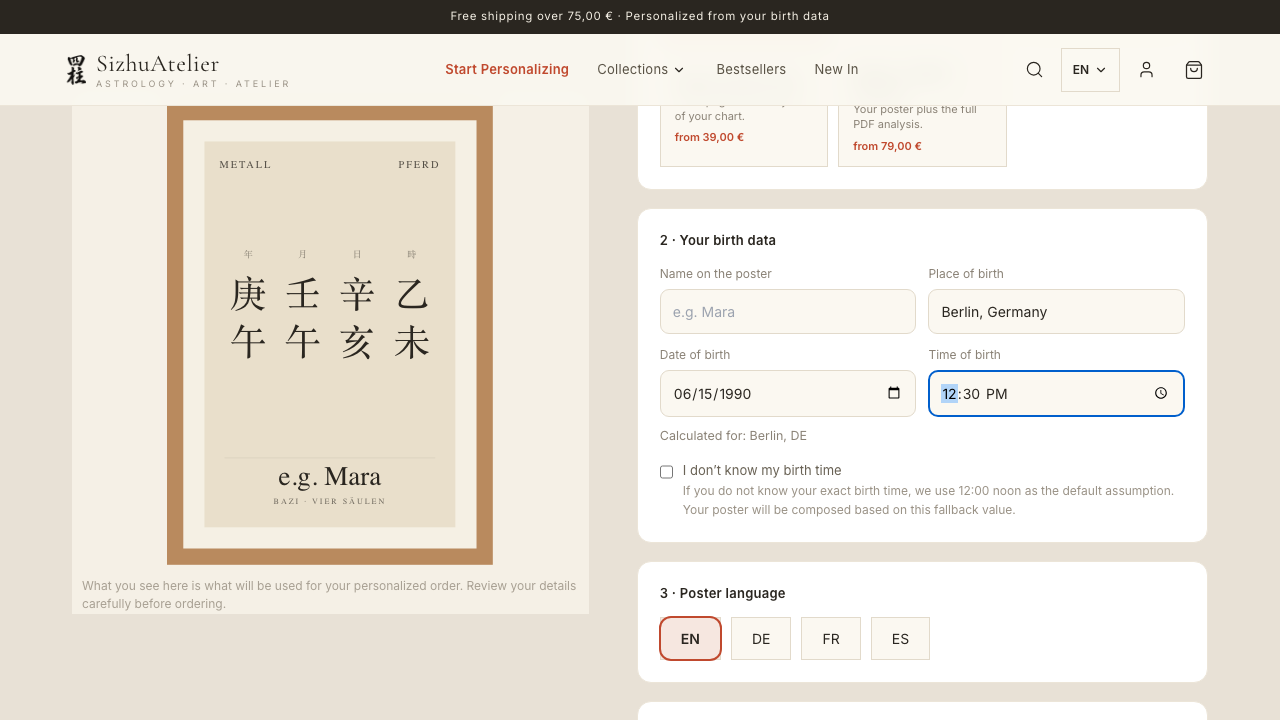
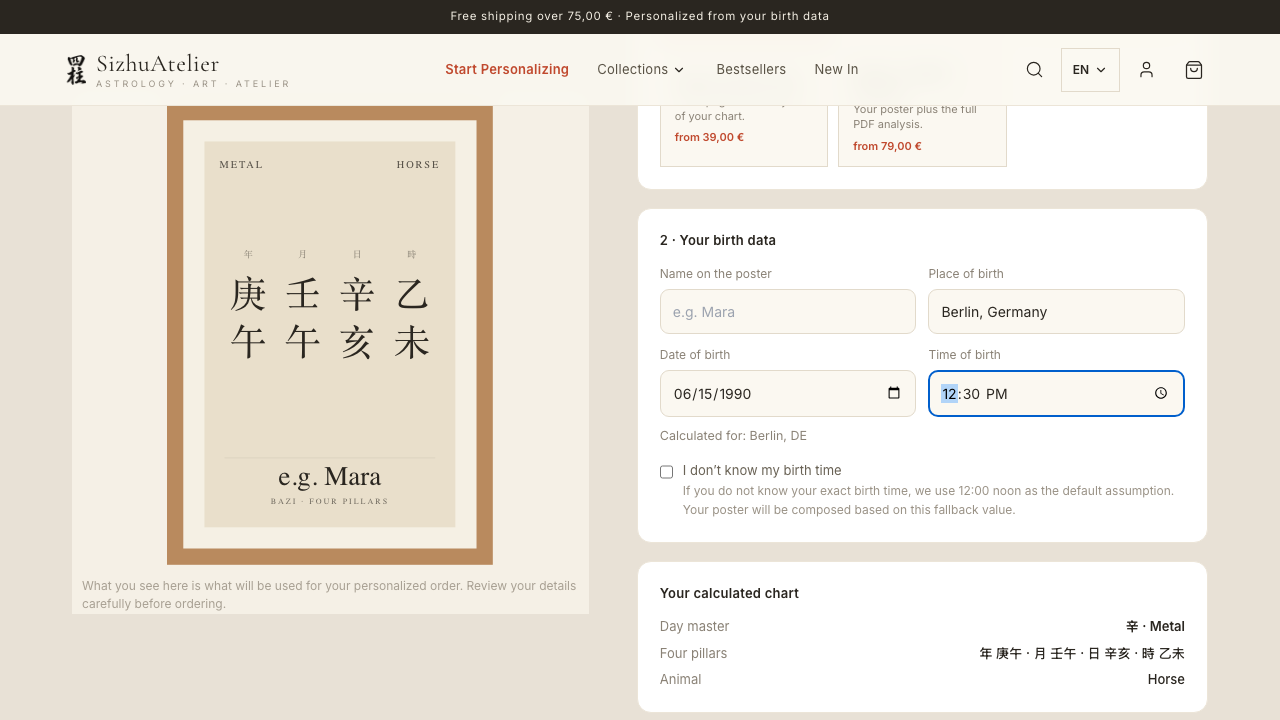
feat(personalize): Tagesmeister-Review, Partner-Review, Poster-Sprache — Operator-Batch #3
- Poster-Sprache-Fund behoben: FuFirE liefert Element/Tier kanonisch DEUTSCH,
  Vorschau+Druck zeigten METALL/PFERD auch bei englischem Poster; Subtitle
  war hardcoded. NEU: geteiltes Modul src/designs/posterLocale.mjs (Elemente,
  12 Tiere, Subtitles single/pair, Relations-Label) — EINE Quelle für
  Browser-Vorschau UND Druck-PDF; unbekannte Werte werden unverändert
  durchgereicht (nie geraten). RELATION_TEXT in fulfillment.js dedupliziert;
  Designs nehmen data.subtitle (Fallback = bisheriger Text); TÜV-Fixture um
  Subtitle-Injektion erweitert.
- Tagesmeister + Säulen als Review: neuer chart-review-Block (erst bei
  fertigem exakten Chart): Day master (Tag-Stamm + Element), Säulen-Zeile
  (年 庚午 · 月 壬午 · 日 辛亥 · 時 乙未), Tierzeichen — i18n EN/DE/FR/ES.
- Partner-Review (Paar): beide Partner als Karten mit den korrekten Daten
  (Name, Datum, Zeit inkl. Noon-Fallback, aufgelöster Ort) + je Tagesmeister
  (dayMasterA/B aus /api/match) + Relations-Label; Summary um
  Partner-Datenzeile ergänzt; poster-lang-picker testid.
- Tests fortgeschrieben: personalize-exact-chart (EN=Horse/Metal, Review,
  DE-Umschaltung), personalize-exact.spec (HORSE/METAL/FOUR PILLARS +
  Review-Assertions 辛/庚午).

Beweise: node 72/72 · jsdom 606/606 · Playwright 6/6 (2x, ein einmaliger
Chromium-Screenshot-Protokollfehler als Flake verifiziert) · Screenshot mit
Day-master-Review + englischem Poster im Ledger

diff --git a/src/pages/Personalize.tsx b/src/pages/Personalize.tsx
@@ -7,6 +7,7 @@ import { useBaziChart, usePairChart } from '../hooks/useBaziChart'
 import { usePlaceResolution, type PlaceStatus } from '../hooks/usePlaceResolution'
 import PosterSvg from '../components/shop/PosterSvg'
 import { DESIGNS } from '../designs/registry.mjs'
+import { localizeElement, localizeAnimal, posterSubtitle, localizeRelation } from '../designs/posterLocale.mjs'
 import { useShopStore, useMoney } from '../store/ShopStore'
 import { useT, LANGS } from '../i18n/I18nProvider'
 import { type Lang } from '../i18n/translations'
@@ -118,10 +119,15 @@ export default function Personalize() {
     { label: '日', stem: '—', branch: '—' },
     { label: '時', stem: '—', branch: '—' },
   ]
-  const livePoster: PosterData = {
+  // Poster-Texte in der GEWÄHLTEN POSTER-SPRACHE (Operator 2026-07-13):
+  // FuFirE liefert Element/Tier kanonisch deutsch — die geteilte
+  // posterLocale-Tabelle übersetzt für Vorschau UND Druck identisch.
+  const livePoster: PosterData & { subtitle: string } = {
     frame: frameHex, bg: bgHex, name: a.name || t('configurator.namePh'),
-    element: chart?.element ?? '', animal: chart?.animal ?? '',
+    element: localizeElement(chart?.element ?? '', posterLang),
+    animal: localizeAnimal(chart?.animal ?? '', posterLang),
     pillars: chart?.pillars ?? EMPTY_PILLARS,
+    subtitle: posterSubtitle('single', posterLang),
   }
   const designKind = def.couple ? 'pair' : 'single'
   const activeDesigns = DESIGNS.filter((d) => d.active && d.kind === designKind)
@@ -129,15 +135,20 @@ export default function Personalize() {
     if (!activeDesigns.some((d) => d.id === designId) && activeDesigns[0]) setDesignId(activeDesigns[0].id)
     // eslint-disable-next-line react-hooks/exhaustive-deps
   }, [designKind])
-  const relationLabel = pair?.relation.wuxingRelation
-    ? t(`personalize.relation.${pair.relation.wuxingRelation}`, { a: pair.relation.elementA ?? '', b: pair.relation.elementB ?? '' })
-    : ''
+  // Relations-Label in der POSTER-Sprache (nicht UI-Sprache) — geteilte
+  // Quelle mit dem Druck-PDF (posterLocale.localizeRelation).
+  const relationLabel = pair?.relation ? localizeRelation(pair.relation, posterLang) : ''
+  const locChart = (c: { pillars: Pillar[]; animal: string; element: string } | undefined) =>
+    c
+      ? { ...c, element: localizeElement(c.element, posterLang), animal: localizeAnimal(c.animal, posterLang) }
+      : { pillars: EMPTY_PILLARS, animal: '', element: '' }
   const livePairPoster = {
     frame: frameHex, bg: bgHex,
     nameA: a.name || t('configurator.namePh'), nameB: b.name || t('configurator.namePh'),
-    chartA: pair?.a ?? { pillars: EMPTY_PILLARS, animal: '', element: '' },
-    chartB: pair?.b ?? { pillars: EMPTY_PILLARS, animal: '', element: '' },
+    chartA: locChart(pair?.a),
+    chartB: locChart(pair?.b),
     relationLabel,
+    subtitle: posterSubtitle('pair', posterLang),
   }
   const previewData = (def.couple ? livePairPoster : livePoster) as PosterData
 
@@ -331,10 +342,52 @@ export default function Personalize() {
             )}
           </div>
 
+          {/* Chart-Review (Operator 2026-07-13): Tagesmeister + Säulen als
+              lesbare Zusammenfassung; beim Paar-Poster BEIDE Partner mit den
+              korrekten eingegebenen Daten. Erscheint erst, wenn das exakte
+              Chart fertig berechnet ist — nie Platzhalterwerte. */}
+          {def.poster && !def.couple && chartStatus === 'ready' && chart && (
+            <div data-testid="chart-review" style={cardStyle}>
+              <div style={headingStyle}>{t('personalize.review.heading')}</div>
+              <dl style={{ margin: 0, display: 'grid', gridTemplateColumns: 'auto 1fr', rowGap: 7, columnGap: 16, fontSize: 13 }}>
+                <SumRow label={t('personalize.review.dayMaster')} value={`${chart.pillars[2]?.stem ?? '—'} · ${localizeElement(chart.element, lang)}`} strong />
+                <SumRow label={t('personalize.review.pillars')} value={chart.pillars.map((pl) => `${pl.label} ${pl.stem}${pl.branch}`).join(' · ')} />
+                <SumRow label={t('personalize.review.animal')} value={localizeAnimal(chart.animal, lang)} />
+              </dl>
+            </div>
+          )}
+          {def.couple && pairStatus === 'ready' && pair && (
+            <div data-testid="chart-review" style={cardStyle}>
+              <div style={headingStyle}>{t('personalize.review.heading')}</div>
+              <div className="grid grid-cols-1 gap-4 sm:grid-cols-2">
+                {[
+                  { key: 'a', person: a, bt: btA, place: resolvedPlace, chart: pair.a, dm: pair.relation.dayMasterA },
+                  { key: 'b', person: b, bt: btB, place: placeB.place, chart: pair.b, dm: pair.relation.dayMasterB },
+                ].map(({ key, person, bt, place, chart: pc, dm }) => (
+                  <div key={key} data-testid={`partner-review-${key}`} style={{ border: `1px solid ${C.border}`, background: C.surfaceWarm, padding: 14 }}>
+                    <div style={{ fontFamily: FONT_SERIF, fontSize: 17, color: C.ink, marginBottom: 8 }}>{person.name || '—'}</div>
+                    <dl style={{ margin: 0, display: 'grid', gridTemplateColumns: 'auto 1fr', rowGap: 5, columnGap: 12, fontSize: 12.5 }}>
+                      <SumRow label={t('configurator.date')} value={person.date || '—'} />
+                      <SumRow label={t('configurator.time')} value={unknownTime ? t('personalize.timeUnknown') : bt.timeDisplay || '—'} />
+                      <SumRow label={t('configurator.place')} value={place ? `${place.resolvedName}, ${place.countryCode}` : person.place || '—'} />
+                      <SumRow label={t('personalize.review.dayMaster')} value={`${dm ?? pc.pillars[2]?.stem ?? '—'} · ${localizeElement(pc.element, lang)}`} strong />
+                      <SumRow label={t('personalize.review.pillars')} value={pc.pillars.map((pl) => `${pl.label} ${pl.stem}${pl.branch}`).join(' · ')} />
+                    </dl>
+                  </div>
+                ))}
+              </div>
+              {relationLabel && (
+                <div data-testid="pair-relation-review" style={{ marginTop: 12, fontSize: 13, color: C.accent, fontWeight: 600 }}>
+                  {localizeRelation(pair.relation, lang)}
+                </div>
+              )}
+            </div>
+          )}
+
           {/* Step 3 — poster language */}
           <div style={cardStyle}>
             <div style={headingStyle}>{t('personalize.langHeading')}</div>
-            <div style={{ display: 'flex', gap: 10 }}>
+            <div data-testid="poster-lang-picker" style={{ display: 'flex', gap: 10 }}>
               {LANGS.map((l) => {
                 const sel = l === posterLang
                 return (
@@ -424,6 +477,7 @@ export default function Personalize() {
               <SumRow label={t('personalize.sumType')} value={t(`personalize.types.${typeId}.name`)} />
               <SumRow label={t('configurator.name')} value={a.name || '—'} />
               {def.couple && <SumRow label={t('personalize.partnerName')} value={b.name || '—'} />}
+              {def.couple && <SumRow label={t('personalize.partnerData')} value={`${b.date || '—'} · ${unknownTime ? t('personalize.timeUnknown') : b.time || '—'} · ${b.place || '—'}`} />}
               <SumRow label={t('configurator.date')} value={a.date || '—'} />
               <SumRow label={t('configurator.time')} value={unknownTime ? t('personalize.timeUnknown') : a.time || '—'} />
               <SumRow label={t('configurator.place')} value={a.place || '—'} />

diff --git a/src/i18n/translations.ts b/src/i18n/translations.ts
@@ -78,7 +78,7 @@ export const translations: Record<Lang, Record<string, any>> = {
       langHeading: '3 · Poster language',
       designHeading: '4 · Design', frameWord: 'Frame colour', paletteWord: 'Background palette', posterBgHeading: 'Poster background', sizeHeading: 'Size',
       pdfAddon: 'Add the digital PDF analysis', pdfNote: 'A 10–15 page personal analysis of your chart, delivered as a download.', pdfBadge: 'Digital PDF',
-      summaryHeading: '5 · Review your personalization', sumType: 'Product', partnerName: 'Partner', timeUnknown: 'Unknown — 12:00 PM default', sumLang: 'Language', sumDesign: 'Design', sumSize: 'Size', sumPrice: 'Price',
+      summaryHeading: '5 · Review your personalization', sumType: 'Product', partnerName: 'Partner', partnerData: 'Partner details', review: { heading: 'Your calculated chart', dayMaster: 'Day master', pillars: 'Four pillars', animal: 'Animal' }, timeUnknown: 'Unknown — 12:00 PM default', sumLang: 'Language', sumDesign: 'Design', sumSize: 'Size', sumPrice: 'Price',
       previewCertainty: 'What you see here is what will be used for your personalized order. Review your details carefully before ordering.',
       trustData: 'Created from your birth data', trustLogic: 'Composed into a symbolic artwork', trustPreview: 'Preview before ordering', trustPremium: 'Premium print quality',
       errFix: 'Please complete the highlighted birth-data fields before adding to cart.',
@@ -440,7 +440,7 @@ export const translations: Record<Lang, Record<string, any>> = {
       langHeading: '3 · Poster-Sprache',
       designHeading: '4 · Design', frameWord: 'Rahmenfarbe', paletteWord: 'Hintergrund-Palette', posterBgHeading: 'Poster-Hintergrund', sizeHeading: 'Format',
       pdfAddon: 'Digitale PDF-Analyse hinzufügen', pdfNote: 'Eine 10–15-seitige persönliche Auswertung deines Charts als Download.', pdfBadge: 'Digitale PDF',
-      summaryHeading: '5 · Personalisierung prüfen', sumType: 'Produkt', partnerName: 'Partner', timeUnknown: 'Unbekannt — Standard 12:00 Uhr', sumLang: 'Sprache', sumDesign: 'Design', sumSize: 'Format', sumPrice: 'Preis',
+      summaryHeading: '5 · Personalisierung prüfen', sumType: 'Produkt', partnerName: 'Partner', partnerData: 'Partner-Daten', review: { heading: 'Dein berechnetes Chart', dayMaster: 'Tagesmeister', pillars: 'Vier Säulen', animal: 'Tierzeichen' }, timeUnknown: 'Unbekannt — Standard 12:00 Uhr', sumLang: 'Sprache', sumDesign: 'Design', sumSize: 'Format', sumPrice: 'Preis',
       previewCertainty: 'Was du hier siehst, wird für deine personalisierte Bestellung verwendet. Bitte prüfe deine Angaben sorgfältig vor der Bestellung.',
       trustData: 'Aus deinen Geburtsdaten erstellt', trustLogic: 'Zu einem symbolischen Kunstwerk komponiert', trustPreview: 'Vorschau vor der Bestellung', trustPremium: 'Premium-Druckqualität',
       errFix: 'Bitte fülle die markierten Geburtsdaten-Felder aus, bevor du in den Warenkorb legst.',
@@ -801,7 +801,7 @@ export const translations: Record<Lang, Record<string, any>> = {
       langHeading: '3 · Langue du poster',
       designHeading: '4 · Design', frameWord: 'Couleur du cadre', paletteWord: 'Palette de fond', posterBgHeading: 'Fond du poster', sizeHeading: 'Format',
       pdfAddon: 'Ajouter l’analyse PDF digitale', pdfNote: 'Une analyse personnelle de 10–15 pages de votre thème, livrée en téléchargement.', pdfBadge: 'PDF digital',
-      summaryHeading: '5 · Vérifiez votre personnalisation', sumType: 'Produit', partnerName: 'Partenaire', timeUnknown: 'Inconnue — 12:00 PM par défaut', sumLang: 'Langue', sumDesign: 'Design', sumSize: 'Format', sumPrice: 'Prix',
+      summaryHeading: '5 · Vérifiez votre personnalisation', sumType: 'Produit', partnerName: 'Partenaire', partnerData: 'Données du partenaire', review: { heading: 'Votre carte calculée', dayMaster: 'Maître du jour', pillars: 'Quatre piliers', animal: 'Animal' }, timeUnknown: 'Inconnue — 12:00 PM par défaut', sumLang: 'Langue', sumDesign: 'Design', sumSize: 'Format', sumPrice: 'Prix',
       previewCertainty: 'Ce que vous voyez ici sera utilisé pour votre commande personnalisée. Vérifiez vos informations attentivement avant de commander.',
       trustData: 'Créé à partir de vos données de naissance', trustLogic: 'Composé en une œuvre symbolique', trustPreview: 'Aperçu avant la commande', trustPremium: 'Qualité d’impression premium',
       errFix: 'Veuillez compléter les champs de naissance surlignés avant d’ajouter au panier.',
@@ -1307,6 +1307,8 @@ export const translations: Record<Lang, Record<string, any>> = {
       summaryHeading: '5 · Revisa tu personalización',
       sumType: 'Producto',
       partnerName: 'Pareja',
+      partnerData: 'Datos de la pareja',
+      review: { heading: 'Tu carta calculada', dayMaster: 'Maestro del día', pillars: 'Cuatro pilares', animal: 'Animal' },
       timeUnknown: 'Desconocida — 12:00 del mediodía por defecto',
       sumLang: 'Idioma',
       sumDesign: 'Diseño',

diff --git a/server/fulfillment.js b/server/fulfillment.js
@@ -15,6 +15,10 @@
 import { randomUUID } from 'node:crypto'
 import { productUidFor } from './gelatoProducts.js'
 import { shippingAddressFromSession } from './gelato.js'
+// Geteilte Poster-Lokalisierung (EINE Quelle mit der Browser-Vorschau —
+// Operator-Fund 2026-07-13: Druck/Vorschau zeigten Element/Tier immer deutsch,
+// unabhängig von der gewählten Poster-Sprache).
+import { localizeElement, localizeAnimal, posterSubtitle, localizeRelation } from '../src/designs/posterLocale.mjs'
 
 export async function ensurePrintTables(pool) {
   if (!pool) return
@@ -54,23 +58,6 @@ function birthInput(p, suffix = '') {
   }
 }
 
-// Relations-Label in der Poster-Sprache (p.language). Spiegel der i18n-Keys
-// personalize.relation.* (src/i18n/translations.ts) — Poster-Text, daher hier
-// serverseitig, wo das Druck-PDF entsteht.
-const RELATION_TEXT = {
-  DE: { a_generates_b: '{a} nährt {b}', b_generates_a: '{b} nährt {a}', a_controls_b: '{a} kontrolliert {b}', b_controls_a: '{b} kontrolliert {a}', same_element: 'Gemeinsames Element', same: 'Gemeinsames Element' },
-  EN: { a_generates_b: '{a} nourishes {b}', b_generates_a: '{b} nourishes {a}', a_controls_b: '{a} controls {b}', b_controls_a: '{b} controls {a}', same_element: 'Shared element', same: 'Shared element' },
-  FR: { a_generates_b: '{a} nourrit {b}', b_generates_a: '{b} nourrit {a}', a_controls_b: '{a} contrôle {b}', b_controls_a: '{b} contrôle {a}', same_element: 'Élément commun', same: 'Élément commun' },
-  ES: { a_generates_b: '{a} nutre {b}', b_generates_a: '{b} nutre {a}', a_controls_b: '{a} controla {b}', b_controls_a: '{b} controla {a}', same_element: 'Elemento común', same: 'Elemento común' },
-}
-
-function relationLabel(relation, language) {
-  const table = RELATION_TEXT[String(language || 'DE').toUpperCase()] || RELATION_TEXT.DE
-  const tpl = table[relation.wuxingRelation]
-  if (!tpl) return ''
-  return tpl.split('{a}').join(relation.elementA || '').split('{b}').join(relation.elementB || '')
-}
-
 /** Poster-Daten für die Design-Vorlage — Einzel ODER Paar, exakt neu
  *  berechnet über FuFirE (deterministisch = identisch zur Vorschau). */
 async function posterDataFrom(p, fufire) {
@@ -82,9 +69,10 @@ async function posterDataFrom(p, fufire) {
         bg: p.bgHex || '#E9DFCB',
         nameA: p.name || '',
         nameB: p.nameB || '',
-        chartA: pair.a,
-        chartB: pair.b,
-        relationLabel: relationLabel(pair.relation, p.language),
+        chartA: { ...pair.a, element: localizeElement(pair.a.element, p.language), animal: localizeAnimal(pair.a.animal, p.language) },
+        chartB: { ...pair.b, element: localizeElement(pair.b.element, p.language), animal: localizeAnimal(pair.b.animal, p.language) },
+        relationLabel: localizeRelation(pair.relation, p.language),
+        subtitle: posterSubtitle('pair', p.language),
       },
       provenance: pair.a.provenance,
     }
@@ -95,9 +83,10 @@ async function posterDataFrom(p, fufire) {
       frame: p.frameHex || '#1B1B1B',
       bg: p.bgHex || '#E9DFCB',
       name: p.name || '',
-      element: chart.element,
-      animal: chart.animal,
+      element: localizeElement(chart.element, p.language),
+      animal: localizeAnimal(chart.animal, p.language),
       pillars: chart.pillars,
+      subtitle: posterSubtitle('single', p.language),
     },
     provenance: chart.provenance,
   }

diff --git a/tests/unit/personalize-exact-chart.test.tsx b/tests/unit/personalize-exact-chart.test.tsx
@@ -12,7 +12,7 @@
  *   3. „Berechnet für: …"-Transparenzzeile zeigt den AUFGELÖSTEN Ort.
  */
 import { describe, it, expect, vi, beforeEach } from 'vitest'
-import { render, screen, fireEvent, waitFor } from '@testing-library/react'
+import { render, screen, fireEvent, waitFor, within } from '@testing-library/react'
 import { MemoryRouter } from 'react-router'
 import App from '../../src/App'
 
@@ -79,7 +79,22 @@ describe('Personalize exact chart', () => {
     for (const glyph of ['壬', '辛', '乙', '亥', '未']) {
       expect(screen.getAllByText(glyph).length).toBeGreaterThan(0)
     }
-    expect(screen.getAllByText(/Pferd/i).length).toBeGreaterThan(0)
+    // Operator 2026-07-13: Poster-Texte folgen der GEWÄHLTEN Poster-Sprache —
+    // UI läuft EN, posterLang defaultet auf EN → Horse/Metal (FuFirE liefert
+    // kanonisch deutsch, posterLocale übersetzt).
+    expect(screen.getAllByText(/Horse/i).length).toBeGreaterThan(0)
     expect(screen.getByTestId('place-resolved-note').textContent).toContain('Berlin, DE')
+
+    // Chart-Review (Operator 2026-07-13): Tagesmeister + Säulen als lesbare
+    // Zusammenfassung sobald das exakte Chart steht — Tag-Stamm 辛 · Metal.
+    const review = screen.getByTestId('chart-review')
+    expect(review.textContent).toContain('辛')
+    expect(review.textContent).toMatch(/Metal/i)
+    expect(review.textContent).toContain('庚午')
+
+    // Poster-Sprache DE wählen → Poster + Review wechseln auf PFERD/Metall.
+    const picker = screen.getByTestId('poster-lang-picker')
+    fireEvent.click(within(picker).getByRole('button', { name: 'DE' }))
+    await waitFor(() => expect(screen.getAllByText(/Pferd/i).length).toBeGreaterThan(0))
   })
 })

diff --git a/tests/e2e/personalize-exact.spec.ts b/tests/e2e/personalize-exact.spec.ts
@@ -23,7 +23,18 @@ test('buyer enters birth data and sees the exact live-computed pillars', async (
   for (const glyph of ['庚', '壬', '辛', '乙', '亥', '未']) {
     await expect(preview.getByText(glyph).first()).toBeVisible({ timeout: 15_000 })
   }
-  await expect(preview.getByText('PFERD').first()).toBeVisible()
-  await expect(preview.getByText('METALL').first()).toBeVisible()
+  // Operator 2026-07-13: Poster-Texte in der GEWÄHLTEN Poster-Sprache —
+  // EN-Browser → posterLang EN → HORSE/METAL (posterLocale übersetzt die
+  // kanonisch deutschen FuFirE-Werte identisch für Vorschau und Druck).
+  await expect(preview.getByText('HORSE').first()).toBeVisible()
+  await expect(preview.getByText('METAL').first()).toBeVisible()
+  await expect(preview.getByText('BAZI · FOUR PILLARS').first()).toBeVisible()
+
+  // Chart-Review (Operator 2026-07-13): Tagesmeister (Tag-Stamm 辛 · Metal)
+  // + Säulen als lesbare Zusammenfassung.
+  const review = page.getByTestId('chart-review')
+  await expect(review).toBeVisible()
+  await expect(review).toContainText('辛')
+  await expect(review).toContainText('庚午')
   await page.screenshot({ path: 'docs/evidence/fufire-gelato/personalize-exact-live.png', fullPage: false })
 })

diff --git a/tests/unit/design-registry-tuev.test.ts b/tests/unit/design-registry-tuev.test.ts
@@ -11,6 +11,9 @@ const DATA = {
   frame: '#B98A5E',
   bg: '#E9DFCB',
   name: 'Anna <Müller> & Söhne',
+  // subtitle ist lokalisierbarer Text (posterLocale) — mit Injektions-Fixture,
+  // damit der TÜV unescaped Einbettung sofort rot macht (invalides XML).
+  subtitle: 'BAZI · <FOUR> & "PILLARS"',
   element: 'Metall',
   animal: 'Pferd',
   pillars: [

diff --git a/docs/evidence/fufire-gelato/ledger.md b/docs/evidence/fufire-gelato/ledger.md
@@ -163,6 +163,27 @@ Beweisklassen: `[REAL-BOUNDARY-LIVE]` (live API, gespeicherte Response) ·
   11. *personalize-entry-Sektion* direkt nach dem Hero (Einzel-BaZi +
      Paar-Kompatibilität als große Einstiegskarten); Home-Sequenz-Test
      fortgeschrieben (REQ-014-Reihenfolge + personalize-entry).
+- **Operator-Batch #3 2026-07-13 (Personalisierungs-Review + Poster-Sprache):**
+  1. *Poster-Sprache-Fund:* FuFirE liefert Element/Tier KANONISCH DEUTSCH —
+     Vorschau UND Druck zeigten „METALL/PFERD" auch bei englischer
+     Poster-Sprache; der Subtitle („BAZI · VIER SÄULEN") war hardcoded.
+     NEU: geteiltes Modul `src/designs/posterLocale.mjs` (Elemente, 12 Tiere,
+     Subtitles single/pair, Relations-Label — EINE Quelle für Browser + PDF;
+     unbekannte Werte werden UNVERÄNDERT durchgereicht, nie geraten). Die
+     doppelt gepflegte RELATION_TEXT-Tabelle in fulfillment.js ist dedupliziert.
+     Designs nehmen `data.subtitle` (Fallback = bisheriger deutscher Text);
+     Design-TÜV-Fixture um Subtitle-Injektion erweitert.
+  2. *Tagesmeister + Säulen als Review:* neuer chart-review-Block in der
+     Personalisierung (erst bei fertigem exakten Chart, nie Platzhalter):
+     Tagesmeister (Tag-Stamm + lokalisiertes Element), Säulen-Zeile
+     (年 庚午 · …), Tierzeichen.
+  3. *Partner-Review (Paar):* beide Partner als Karten mit den KORREKTEN
+     eingegebenen Daten (Name, Datum, Zeit inkl. Noon-Fallback-Anzeige,
+     aufgelöster Ort) + je Tagesmeister (dayMasterA/B aus /api/match) +
+     Relations-Label; Summary um Partner-Datenzeile ergänzt.
+  4. Tests fortgeschrieben: personalize-exact-chart (EN→Horse/Metal, Review,
+     DE-Umschaltung via poster-lang-picker), personalize-exact.spec (HORSE/
+     METAL/FOUR PILLARS + Review-Assertions).
 - **FuFirE-Gate-Nachzug 2026-07-13 (kein Vertragswechsel, Testreparatur):**
   `delta-poster-bg-palette.test.tsx` (AT-018-3 Cart-Line) und
   `personalization-passthrough.test.tsx` (AT-004-1 Paar) stammten aus der
